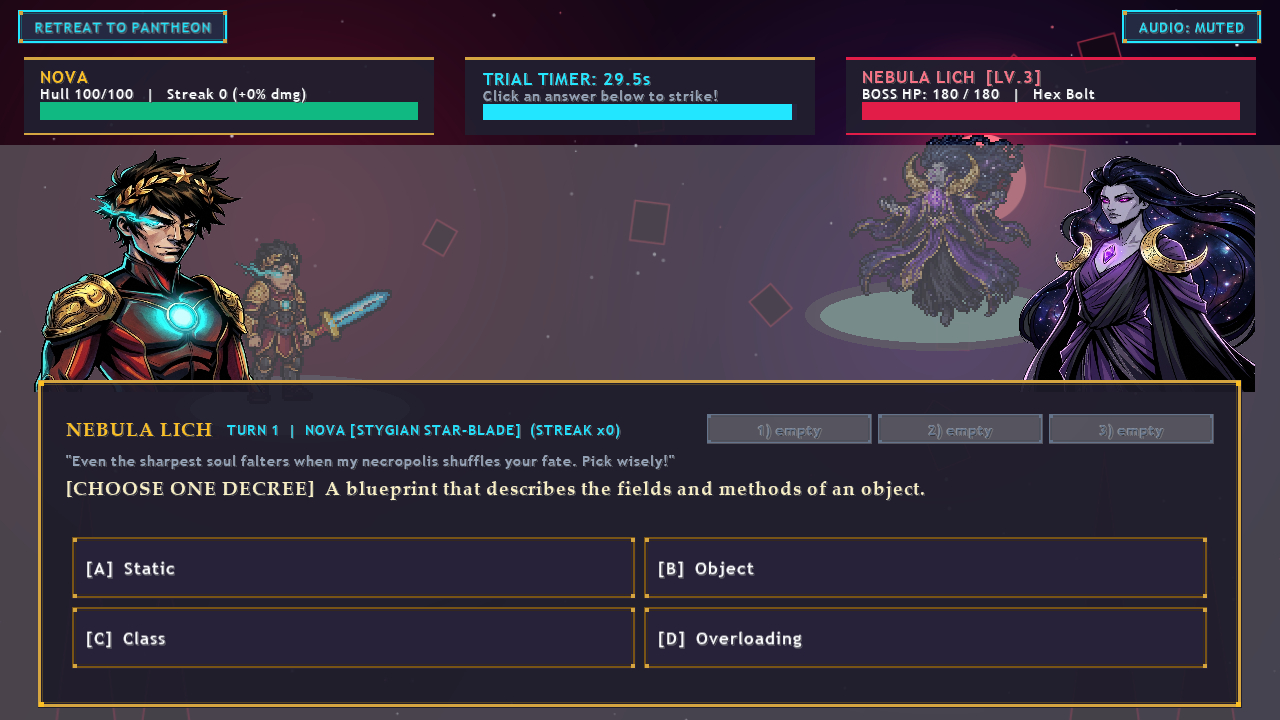
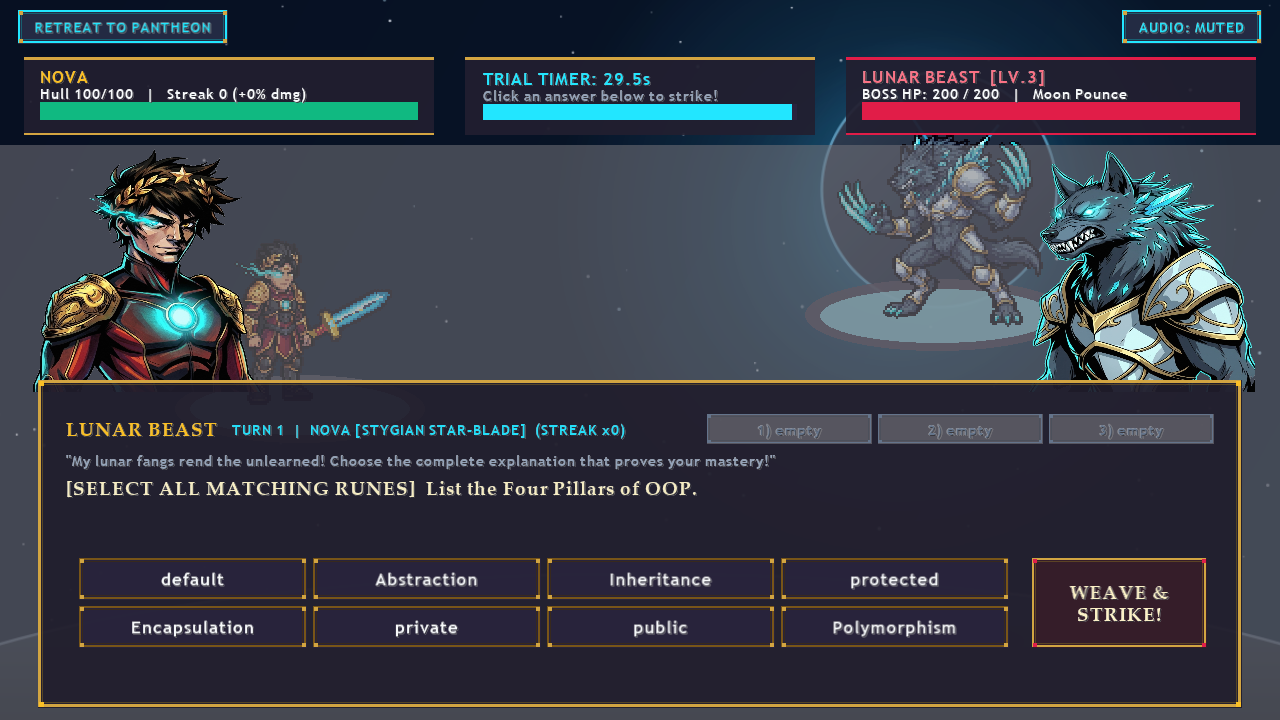
docs: showcase Cosmic Quest sprites and battles
Add a sprite header and quick links, and feature the Star-Gun and Spear cadets, Star Weaver, and Lunar Beast in gameplay screenshots.

Assisted-by: OpenAI Codex

diff --git a/README.md b/README.md
@@ -1,4 +1,18 @@
-# Cosmic Quest
+<h1 align="center">Cosmic Quest</h1>
+
+<p align="center">
+  <img src="assets/sprites/hero_cadet_gunner_attack.png" width="96" alt="Orion firing the Adamant Star-Gun">
+  <img src="assets/sprites/hero_cadet_spear.png" width="92" alt="Lyra holding the Eternal Astral Spear">
+  <img src="assets/sprites/enemy_star_weaver.png" width="96" alt="Star Weaver facing the cadets">
+</p>
+
+<p align="center"><strong>A Java study battle game by NeuroLink</strong></p>
+
+<p align="center">
+  <a href="https://github.com/lyle-leif/Cosmic-Quest/releases/tag/v1.0">Download v1.0</a>
+  · <a href="#how-to-run-the-game">Run from source</a>
+  · <a href="#sample-screenshots-and-highlights">See gameplay</a>
+</p>
 
 ## Project Overview
 
@@ -230,9 +244,13 @@ Choose a battle mode, load a lesson, adjust settings, or replay the prologue.
 Answer timed questions to attack the guardian. Squad mode displays the current
 cadet and the team's remaining hull.
 
-![Solo battle against a Level 3 Nebula Lich](docs/screenshots/solo-battle.png)
+**Solo.** Nova faces a Level 3 Lunar Beast in an enumeration trial.
 
-![Three-player Squad battle against a Level 3 Void Brute](docs/screenshots/squad-battle.png)
+![Nova selecting OOP terms against Lunar Beast](docs/screenshots/solo-battle.png)
+
+**Squad.** Orion, the Star-Gun cadet, takes a reasoning turn against a Level 3 Star Weaver.
+
+![Orion with the Adamant Star-Gun facing Star Weaver](docs/screenshots/squad-battle.png)
 
 ### Saved Settings
 
@@ -242,11 +260,12 @@ Set separate audio levels and choose a question timer for both desktop modes.
 
 ### Combat and Mission Debrief
 
-Correct answers trigger pixel combat, followed by a debrief when the battle ends.
+Lyra strikes Star Weaver with the Eternal Astral Spear. After the battle, the
+squad can review its performance in the debrief.
 
-![Pixel combat after a correct answer](docs/screenshots/combat.png)
+![Lyra's spear attack against Star Weaver](docs/screenshots/combat.png)
 
-![Victory screen showing stars, accuracy, damage, and the debrief](docs/screenshots/victory.png)
+![Star Weaver victory screen showing stars, accuracy, damage, and the debrief](docs/screenshots/victory.png)
 
 ## Thank You
 
